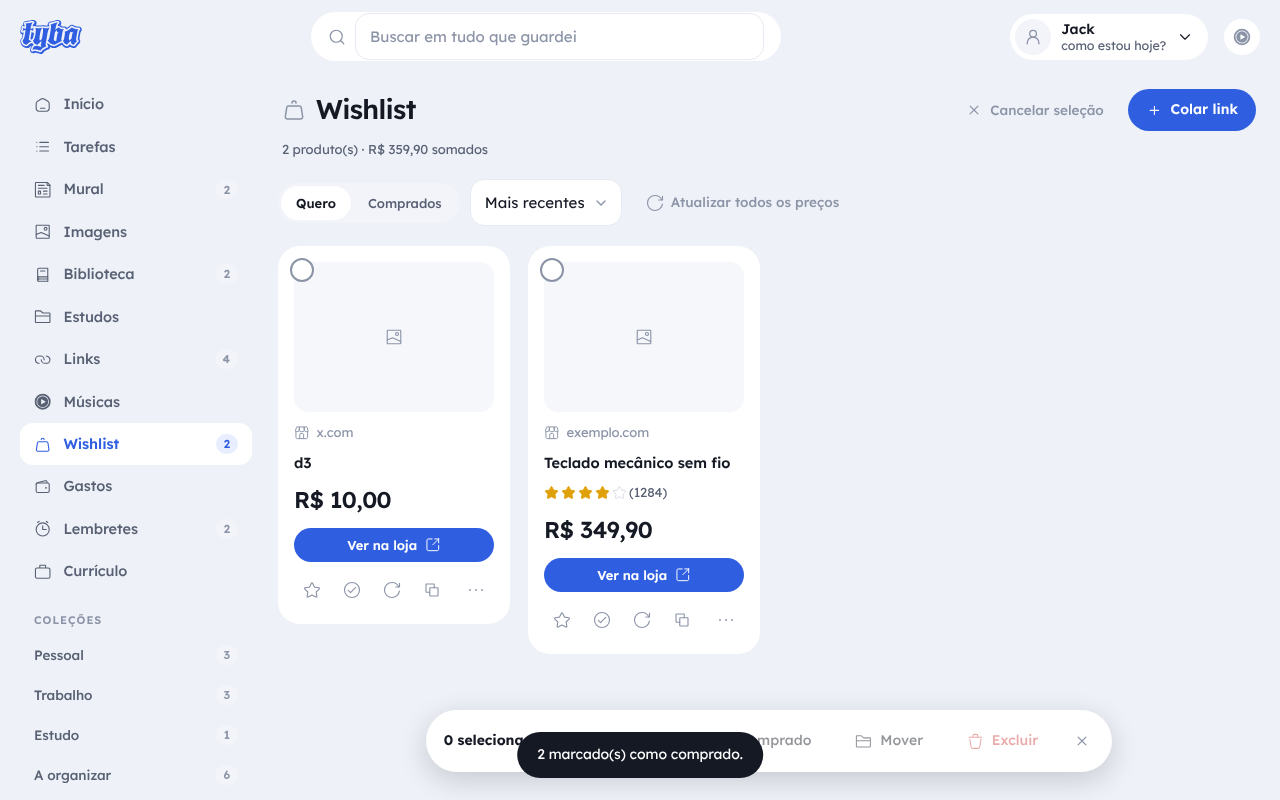
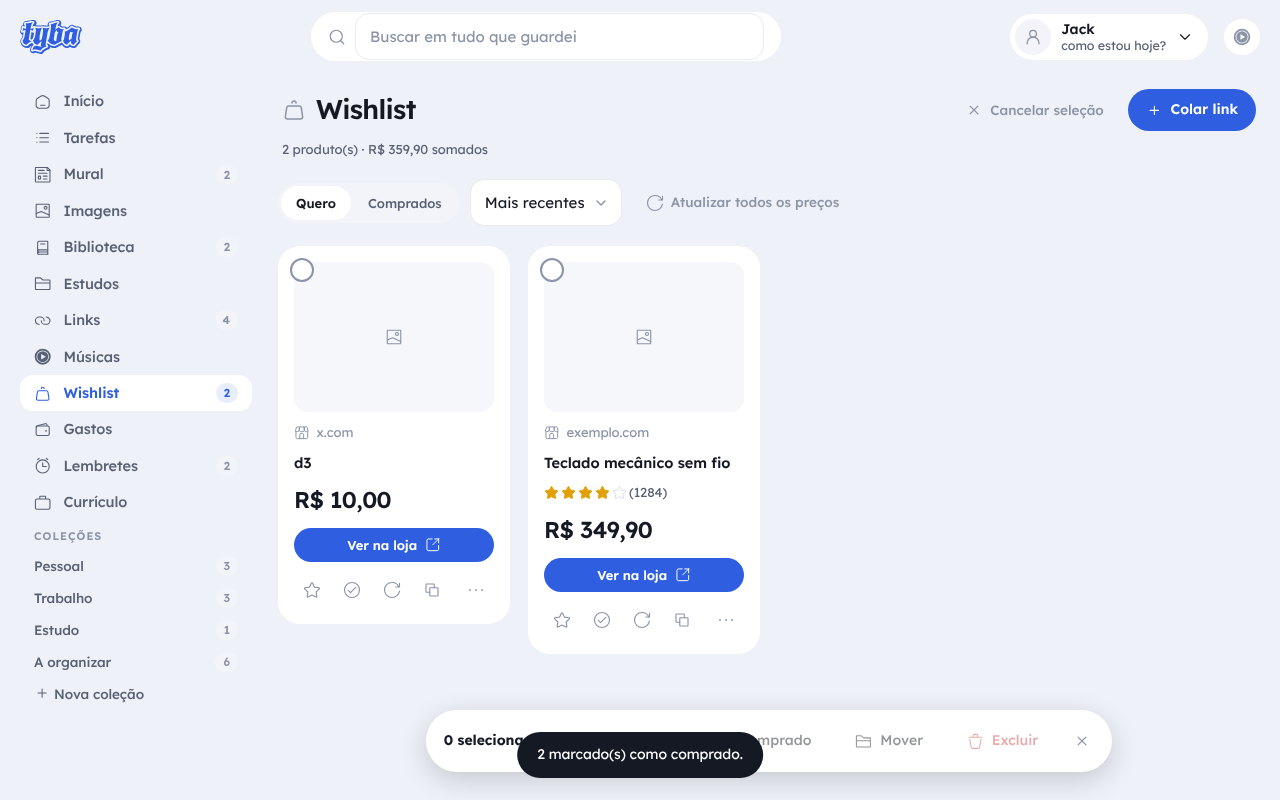
Confirmações em cartão do app (sem confirm/prompt do navegador); linha do feed com Hoje e Selecionar
Claude-Session: https://claude.ai/code/session_016SegfhJSHDTXjMwqePjPmg

diff --git a/assets/js/app.js b/assets/js/app.js
@@ -703,7 +703,7 @@
           <button class="btn-1" type="submit">${ic('check')}Salvar</button></footer></form>`;
     }
     if (m.tipo === 'mover-lote') {
-      const n = (UI.sel || []).length;
+      const n = UI.moverUm ? 1 : (UI.sel || []).length;
       return `<form class="modal" method="dialog" data-form="mover-lote">
         <header class="modal-cab">${ic('folder')}<h2>Mover ${n} ${n === 1 ? 'item' : 'itens'}</h2>${btnIco('modal-fechar', 'xmark', 'Fechar')}</header>
         <div class="modal-corpo"><div class="form">${campo('f-colecao', 'Para a coleção', selectHTML('f-colecao', 'colecao', [['', 'Sem coleção (A organizar)'], ...S.colecoes.map((c) => [c.id, c.nome])], ''))}</div></div>
@@ -2036,7 +2036,7 @@
         ${doDia.length ? blocosFeed(doDia, { hora: true }) : vazio('calendar', 'Nenhum registro neste dia.')}`;
     }
     const lista = ordenados();
-    const cab = (extra) => `<div class="secao-tit">Atividade recente${extra ? ` <em>·</em> ${extra}` : ''} ${btnTxt('feed-dia', 'calendar', 'Por dia')}</div>`;
+    const cab = (extra) => `<div class="secao-tit feed-cab">${btnTxt('feed-dia', 'calendar', extra || 'Por dia')}</div>`;
     if (!lista.length) return cab('') + vazio('journal-page', 'Nada guardado ainda. Comece pelos botões acima.');
     const dias = {};
     lista.forEach((i) => { const d = dataLocal(i.criadoEm); (dias[d] = dias[d] || []).push(i); });
@@ -2937,9 +2937,31 @@
   });
 
   /* ---------------- ações ---------------- */
-  function excluirItem(i) {
+  /** Cartão de confirmação do app (no lugar do confirm() do navegador). A 1ª linha é o título; o resto, o texto. */
+  function confirmar(msg, o = {}) {
+    return new Promise((resolve) => {
+      const [titulo, ...resto] = String(msg).split('\n'), texto = resto.join('\n').trim();
+      const verbo = (titulo.match(/^[\p{L}]+/u) || [''])[0];
+      const perigo = o.perigo !== undefined ? o.perigo : /^(Excluir|Apagar|Descartar|Substituir|Sair)$/.test(verbo);
+      const icone = o.icone || ({ Excluir: 'trash', Apagar: 'trash', Descartar: 'undo', Substituir: 'refresh', Sair: 'undo' }[verbo] || 'check-circle');
+      const d = document.createElement('dialog'); d.className = 'dialogo-conf'; d.setAttribute('aria-label', titulo);
+      d.innerHTML = `<form class="modal conf" method="dialog"><div class="conf-corpo">
+          <span class="onb-icone ${perigo ? 'perigo' : ''}">${ic(icone)}</span>
+          <h2>${esc(titulo)}</h2>${texto ? `<p class="onb-sub">${esc(texto)}</p>` : ''}</div>
+        <footer class="conf-pe"><button type="button" class="btn-f" data-r="0">${esc(o.cancelar || 'Cancelar')}</button>
+          <button type="button" class="${perigo ? 'btn-1 btn-risco' : 'btn-1'}" data-r="1">${esc(o.ok || verbo || 'Confirmar')}</button></footer></form>`;
+      let feito = false;
+      const fim = (v) => { if (feito) return; feito = true; d.classList.add('saindo'); setTimeout(() => { d.close(); d.remove(); resolve(v); }, 140); };
+      d.addEventListener('click', (e) => { const b = e.target.closest('[data-r]'); if (b) fim(b.dataset.r === '1'); else if (e.target === d) fim(false); });
+      d.addEventListener('cancel', (e) => { e.preventDefault(); fim(false); });
+      document.body.appendChild(d); d.showModal();
+      const alvo = d.querySelector(perigo ? '[data-r="0"]' : '[data-r="1"]'); if (alvo) alvo.focus();
+    });
+  }
+
+  async function excluirItem(i) {
     const lembs = S.lembretes.filter((l) => l.itemId === i.id && !l.concluido).length;
-    if (!confirm(`Excluir “${tituloItem(i)}”?\n\nSai do feed, da busca e das coleções.` + (lembs ? `\n${lembs} lembrete(s) viram avulsos.` : ''))) return;
+    if (!(await confirmar(`Excluir “${tituloItem(i)}”?\n\nSai do feed, da busca e das coleções.` + (lembs ? `\n${lembs} lembrete(s) viram avulsos.` : '')))) return;
     S.itens = S.itens.filter((x) => x.id !== i.id);
     S.lembretes.forEach((l) => { if (l.itemId === i.id) l.itemId = null; });
     salvar(); toast('Excluído.');
@@ -2947,7 +2969,7 @@
     else render();
   }
 
-  document.addEventListener('click', (e) => {
+  document.addEventListener('click', async (e) => {
     document.querySelectorAll('details.menu[open]').forEach((d) => { if (!d.contains(e.target)) d.removeAttribute('open'); });
     const sel = document.getElementById('menu-selecao');
     if (sel && !sel.hidden && !sel.contains(e.target)) sel.hidden = true;
@@ -2983,7 +3005,7 @@
         toast(UI.sel.length + (alvo ? ' marcado(s) como comprado.' : ' voltou(aram) para Quero.')); UI.sel = []; return passa();
       }
       case 'sel-excluir': {
-        const n = UI.sel.length; if (!n || !confirm(`Excluir ${n} ${n === 1 ? 'item' : 'itens'}?\n\nSaem do feed, da busca e das coleções.`)) return;
+        const n = UI.sel.length; if (!n || !(await confirmar(`Excluir ${n} ${n === 1 ? 'item' : 'itens'}?\n\nSaem do feed, da busca e das coleções.`))) return;
         const ids = new Set(UI.sel);
         S.itens = S.itens.filter((x) => !ids.has(x.id));
         S.lembretes.forEach((l) => { if (ids.has(l.itemId)) l.itemId = null; });
@@ -3094,7 +3116,7 @@
       case 'excluir-grupo-imagem': {
         e.preventDefault();
         const gr = grupoImagem(UI.grupoImagem); if (!gr) return;
-        if (!confirm(`Excluir o grupo “${gr.nome}”?\n\nAs imagens dele continuam guardadas, só ficam sem grupo.`)) return;
+        if (!(await confirmar(`Excluir o grupo “${gr.nome}”?\n\nAs imagens dele continuam guardadas, só ficam sem grupo.`))) return;
         S.itens.forEach((x) => { if (x.tipo === 'imagem' && x.grupo === gr.id) x.grupo = ''; });
         S.gruposImagem = S.gruposImagem.filter((x) => x.id !== gr.id); UI.grupoImagem = '';
         salvar(); UI.pularColheita = true; return render();
@@ -3114,7 +3136,7 @@
       case 'tar-feitas': e.preventDefault(); UI.verFeitas = !UI.verFeitas; UI.pularColheita = true; return render();
       case 'tar-para': e.preventDefault(); return mudarEtapa(b.dataset.id, b.dataset.v);
       case 'descartar-rascunho': {
-        if (!confirm('Descartar o que você digitou?')) return;
+        if (!(await confirmar('Descartar o que você digitou?'))) return;
         limparRascunho(b.dataset.k); UI.pularColheita = true; UI.modal = null; return render();
       }
       case 'add-campo': { const k = b.dataset.k; (UI.extras[k] = UI.extras[k] || []).push(b.dataset.campo); return render(); }
@@ -3144,7 +3166,7 @@
         fecharMenu(); i.comprado = !i.comprado;
         if (i.comprado) {
           i.compradoEm = agora();
-          if (i.preco != null && confirm(`Marcado como comprado.\n\nRegistrar um gasto de ${brl(i.preco, i.moeda)} hoje?`))
+          if (i.preco != null && await confirmar(`Marcado como comprado.\n\nRegistrar um gasto de ${brl(i.preco, i.moeda)} hoje?`, { ok: 'Registrar gasto', cancelar: 'Agora não', perigo: false, icone: 'check-circle' }))
             S.itens.push({ id: uid('gasto'), tipo: 'gasto', valor: i.preco, dataGasto: hoje(), descricao: tituloItem(i), categoria: 'Compras', colecoes: [], comentarios: [], favorito: false, criadoEm: agora(), origemId: i.id });
         } else delete i.compradoEm;
         return passa();
@@ -3163,16 +3185,7 @@
       case 'excluir-item': fecharMenu(); if (UI.modal && UI.modal.tipo === 'item-ver') fecharModal(); return excluirItem(i);
       case 'abrir-fora': fecharMenu(); window.open(i.url, '_blank', 'noopener'); return;
       case 'copiar-link': fecharMenu(); navigator.clipboard && navigator.clipboard.writeText(i.url).then(() => toast('Endereço copiado.', 'copy'), () => toast('Não consegui copiar.')); return;
-      case 'organizar-em': {
-        fecharMenu();
-        const nomes = S.colecoes.map((c, k) => `${k + 1}. ${c.nome}`).join('\n');
-        const r = prompt(`Mover “${tituloItem(i)}” para qual coleção?\n\n${nomes}\n0. Sem coleção`, '1');
-        if (r === null) return;
-        const n = parseInt(r, 10);
-        i.colecoes = (n >= 1 && S.colecoes[n - 1]) ? [{ id: S.colecoes[n - 1].id, grupo: '' }] : [];
-        i.organizar = !i.colecoes.length;
-        return passa();
-      }
+      case 'organizar-em': fecharMenu(); UI.moverUm = id; return abrirModal({ tipo: 'mover-lote' });
       case 'progresso': fecharMenu(); return abrirModal({ tipo: 'progresso', id });
       case 'anotar': fecharMenu(); return abrirModal({ tipo: 'anotar', id });
       case 'anot-excluir': {
@@ -3198,7 +3211,7 @@
       case 'excluir-pasta': {
         fecharMenu();
         const n = doTipo('artigo').filter((a) => a.pastaId === id).length;
-        if (!confirm(`Excluir a pasta “${pasta(id).nome}”?\n\n${n} artigo(s) ficam sem pasta, mas continuam guardados.`)) return;
+        if (!(await confirmar(`Excluir a pasta “${pasta(id).nome}”?\n\n${n} artigo(s) ficam sem pasta, mas continuam guardados.`))) return;
         S.pastas = S.pastas.filter((p) => p.id !== id);
         S.itens.forEach((a) => { if (a.pastaId === id) a.pastaId = ''; });
         UI.pastaAberta = null; return passa();
@@ -3225,7 +3238,7 @@
       case 'excluir-colecao': {
         fecharMenu();
         const c = colecao(id), n = S.itens.filter((x) => x.colecoes.some((y) => y.id === id)).length;
-        if (!confirm(`Excluir a coleção “${c.nome}”?\n\nOs ${n} item(ns) continuam guardados; só o agrupamento é desfeito.`)) return;
+        if (!(await confirmar(`Excluir a coleção “${c.nome}”?\n\nOs ${n} item(ns) continuam guardados; só o agrupamento é desfeito.`))) return;
         S.colecoes = S.colecoes.filter((x) => x.id !== id);
         S.itens.forEach((x) => (x.colecoes = x.colecoes.filter((y) => y.id !== id)));
         Object.keys(S.destinoPadrao).forEach((k) => { if (S.destinoPadrao[k] === id) S.destinoPadrao[k] = ''; });
@@ -3240,7 +3253,7 @@
         toast(l.motivo === 'tarefa' ? 'Tarefa concluída.' : 'Lembrete concluído.', 'check-circle-solid'); return passa(); }
       case 'lemb-reabrir': { const l = lembrete(id); l.concluido = false; return passa(); }
       case 'lemb-adiar': { const l = lembrete(id); return abrirModal({ tipo: 'editar', id: l.id }); }
-      case 'excluir-lembrete': { fecharMenu(); const l = lembrete(id); if (!confirm(`Excluir o lembrete “${l.texto}”?`)) return; S.lembretes = S.lembretes.filter((x) => x.id !== id); return passa(); }
+      case 'excluir-lembrete': { fecharMenu(); const l = lembrete(id); if (!(await confirmar(`Excluir o lembrete “${l.texto}”?`))) return; S.lembretes = S.lembretes.filter((x) => x.id !== id); return passa(); }
       case 'modo': {
         S.perfil.modo = b.dataset.v; UI.modoPrevia = null;
         salvar(); aplicarTema(); renderTopo();
@@ -3277,7 +3290,7 @@
       case 'backup-exportar': baixar('meu-espaco-backup-' + hoje() + '.json', Object.assign({ tipoArquivo: 'meu-espaco-backup' }, S)); return toast('Backup exportado.', 'download');
       case 'backup-importar': return document.getElementById('arquivo-backup').click();
       case 'resetar':
-        if (!confirm('Apagar tudo deste navegador e recarregar os dados de exemplo?\n\nExporte um backup antes.')) return;
+        if (!(await confirmar('Apagar tudo deste navegador e recarregar os dados de exemplo?\n\nExporte um backup antes.', { ok: 'Apagar tudo' }))) return;
         try { localStorage.removeItem(CHAVE); localStorage.removeItem(CHAVE_RASC); } catch (er) { /* ignora */ }
         location.hash = '#/inicio'; return location.reload();
       case 'cv-importar': UI.erroCV = ''; return document.getElementById('arquivo-cv').click();
@@ -3289,7 +3302,7 @@
       case 'cv-excluir': {
         fecharMenu();
         const s = b.dataset.sec, it = S.curriculo[s].find((x) => x.id === id);
-        if (!confirm(`Excluir “${SEC[s].titulo(it)}”?`)) return;
+        if (!(await confirmar(`Excluir “${SEC[s].titulo(it)}”?`))) return;
         S.curriculo[s] = S.curriculo[s].filter((x) => x.id !== id); return passa();
       }
       case 'pl-confirmar': S.curriculo = aplicarImportacao(UI.plano); UI.plano = null; salvar(); toast('Importação concluída.', 'check-circle-solid'); return render();
@@ -3395,9 +3408,9 @@
       UI.modal = null; ok('Grupo guardado.', 'folder'); return render();
     }
     if (tipo === 'mover-lote') {
-      const ids = UI.sel || [];
+      const ids = UI.moverUm ? [UI.moverUm] : (UI.sel || []);
       ids.map(item).filter(Boolean).forEach((x) => { x.colecoes = d.colecao ? [{ id: d.colecao, grupo: '' }] : []; x.organizar = !x.colecoes.length; x.editadoEm = agora(); });
-      UI.sel = []; UI.modal = null; ok(ids.length + ' movido(s).', 'folder'); return render();
+      if (UI.moverUm) UI.moverUm = null; else UI.sel = []; UI.modal = null; ok(ids.length + ' movido(s).', 'folder'); return render();
     }
     if (tipo === 'imagem-grupo') {
       const i = item(f.dataset.id);
@@ -3646,11 +3659,11 @@
     const f = t.files[0]; t.value = '';
     if (!f) return;
     const r = new FileReader();
-    r.onload = () => {
+    r.onload = async () => {
       let raw;
       try { raw = JSON.parse(r.result); } catch (er) { return toast('Esse arquivo não é um JSON válido.'); }
       if (!raw || !Array.isArray(raw.itens) || !raw.perfil || !Array.isArray(raw.colecoes)) return toast('Esse arquivo não é um backup da Tyba.');
-      if (!confirm(`Substituir os dados deste navegador pelo backup “${f.name}” (${raw.itens.length} registros)?`)) return;
+      if (!(await confirmar(`Substituir os dados deste navegador pelo backup “${f.name}” (${raw.itens.length} registros)?\n\nO que está aqui agora será trocado pelo conteúdo do arquivo.`, { ok: 'Substituir' }))) return;
       delete raw.tipoArquivo; S = migrar(raw); salvar(); toast('Backup importado.', 'check-circle-solid');
       UI.pularColheita = true; location.hash = '#/inicio'; render();
     };
@@ -4011,7 +4024,7 @@
     }
   }
   async function sair() {
-    if (!confirm('Sair da conta? Os registros continuam guardados neste navegador.')) return;
+    if (!(await confirmar('Sair da conta?\n\nOs registros continuam guardados neste navegador.', { ok: 'Sair', perigo: false, icone: 'undo' }))) return;
     try { await fetch('api/sessao', { method: 'DELETE' }); } catch (e) { /* ignora */ }
     try { if (window.google && google.accounts) google.accounts.id.disableAutoSelect(); } catch (e) { /* ignora */ }
     try { if (window.Nuvem) await Nuvem.sair(); } catch (e) { /* ignora */ }

diff --git a/assets/css/estilo.css b/assets/css/estilo.css
@@ -132,6 +132,8 @@ a[aria-current] .pino { background: var(--marca-leve); color: var(--marca); }
 .secao-tit { font-size: 12.5px; font-weight: 600; color: var(--tinta-3); display: flex; align-items: center; gap: 12px; padding: 0 4px; }
 .secao-tit::after { content: ""; flex: 1; height: 1px; background: var(--linha); }
 .secao-tit.so { }
+.secao-tit.feed-cab::after { display: none; }
+.secao-tit.feed-cab .sel-lado { margin-left: auto; }
 .secao-tit.so::after { display: none; }
 
 /* ---------- botões ---------- */
@@ -1187,6 +1189,19 @@ body.arrastando-ord, body.arrastando-ord * { cursor: grabbing !important; user-s
 @media (min-width: 861px) and (max-height: 880px) { .nav-lateral { gap: 1px; } .nav-lateral a { padding: 7px 14px; } .nav-lateral .sub { padding: 5px 14px; } .nav-lateral .nav-rotulo, .nav-lateral p { margin-top: 6px; } }
 @media (min-width: 861px) and (max-height: 760px) { .nav-lateral { gap: 0; } .nav-lateral a { padding: 4px 14px; font-size: 14px; } .nav-lateral .sub { padding: 3px 14px; font-size: 13px; } }
 @media (min-width: 861px) and (max-height: 640px) { .nav-lateral a { padding: 2px 14px; font-size: 13px; } .nav-lateral .sub { padding: 1px 14px; font-size: 12.5px; } }
+
+/* ---------- cartão de confirmação (no lugar do confirm do navegador) ---------- */
+.dialogo-conf { animation: confEntra .2s ease-out; }
+.dialogo-conf.saindo { opacity: 0; transition: opacity .14s ease-out; }
+@keyframes confEntra { from { opacity: 0; transform: translateY(8px) scale(.98); } to { opacity: 1; transform: none; } }
+.modal.conf { width: min(420px, calc(100vw - 32px)); }
+.conf-corpo { padding: 30px 28px 22px; display: flex; flex-direction: column; gap: 10px; }
+.conf-corpo h2 { font-size: 22px; line-height: 1.2; font-weight: 600; letter-spacing: -.01em; margin-top: 4px; }
+.conf-corpo .onb-sub { font-size: 14.5px; line-height: 1.5; white-space: pre-line; }
+.onb-icone.perigo { background: var(--perigo-leve); color: var(--perigo); }
+.conf-pe { display: flex; justify-content: flex-end; gap: 10px; padding: 14px 22px 22px; }
+.btn-1.btn-risco { background: var(--perigo); color: #fff; }
+.btn-1.btn-risco:hover { background: var(--perigo); filter: brightness(.92); }
 
 /* ---------- telas menores (no fim do arquivo para ganhar de tudo) ---------- */
 @media (max-width: 1180px) {

diff --git a/assets/js/atualizacoes.js b/assets/js/atualizacoes.js
@@ -14,6 +14,8 @@ window.ATUALIZACOES = [
     data: '2026-11-13',
     titulo: 'Tyba, selecionar em lote, encaixe de cards e mais',
     itens: [
+      'As confirmações (excluir, sair, descartar etc.) agora são cartões bonitos do próprio app, no estilo do onboarding, em vez das caixas do navegador; “Mover para coleção” também virou uma janela do app.',
+      'Início: a linha do feed ficou só com “Hoje” à esquerda (abre o por dia) e Selecionar à direita; sumiram “Atividade recente” e “Por dia”.',
       'O rodapé saiu do site; o estado da sincronização e os créditos ficam só em Configurações.',
       'Início: o Selecionar foi para a mesma linha de “Atividade recente” (e do seletor de dia). A barra lateral esquerda fica fixa e sempre inteira na tela, sem rolagem: o espaçamento encolhe conforme a altura da janela.',
       'O sistema agora se chama Tyba: o logo (que muda com a cor do tema, claro e escuro) aparece no topo e na tela de entrada no lugar do nome, e o título da aba e o nome do aplicativo instalado também mudaram.',

diff --git a/docs/ATUALIZACOES.md b/docs/ATUALIZACOES.md
@@ -10,6 +10,8 @@ Como escrever: uma linha por novidade, do jeito que a pessoa percebe na tela —
 
 ## 5.14 — 13/11/2026 · Tyba, selecionar em lote, encaixe de cards e mais
 
+- As confirmações (excluir, sair, descartar etc.) agora são cartões bonitos do próprio app, no estilo do onboarding, em vez das caixas do navegador; “Mover para coleção” também virou uma janela do app.
+- Início: a linha do feed ficou só com “Hoje” à esquerda (abre o por dia) e Selecionar à direita; sumiram “Atividade recente” e “Por dia”.
 - O rodapé saiu do site; o estado da sincronização e os créditos ficam só em Configurações.
 - Início: o Selecionar foi para a mesma linha de “Atividade recente” (e do seletor de dia). A barra lateral esquerda fica fixa e sempre inteira na tela, sem rolagem: o espaçamento encolhe conforme a altura da janela.
 - O sistema agora se chama Tyba: o logo (que muda com a cor do tema, claro e escuro) aparece no topo e na tela de entrada no lugar do nome, e o título da aba e o nome do aplicativo instalado também mudaram.
